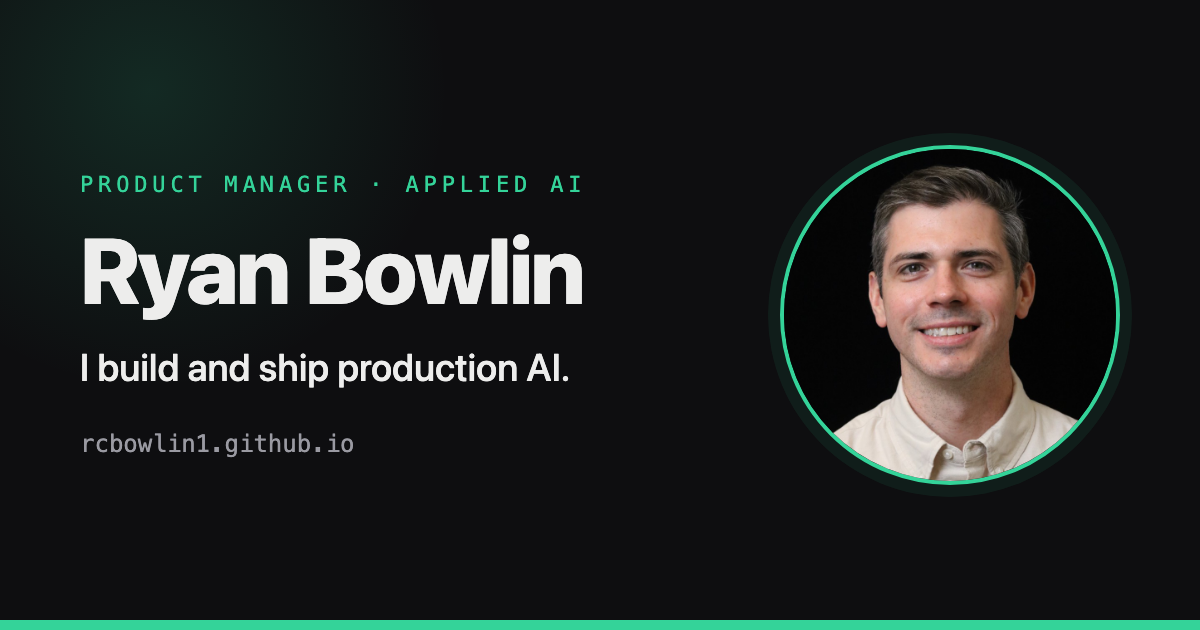
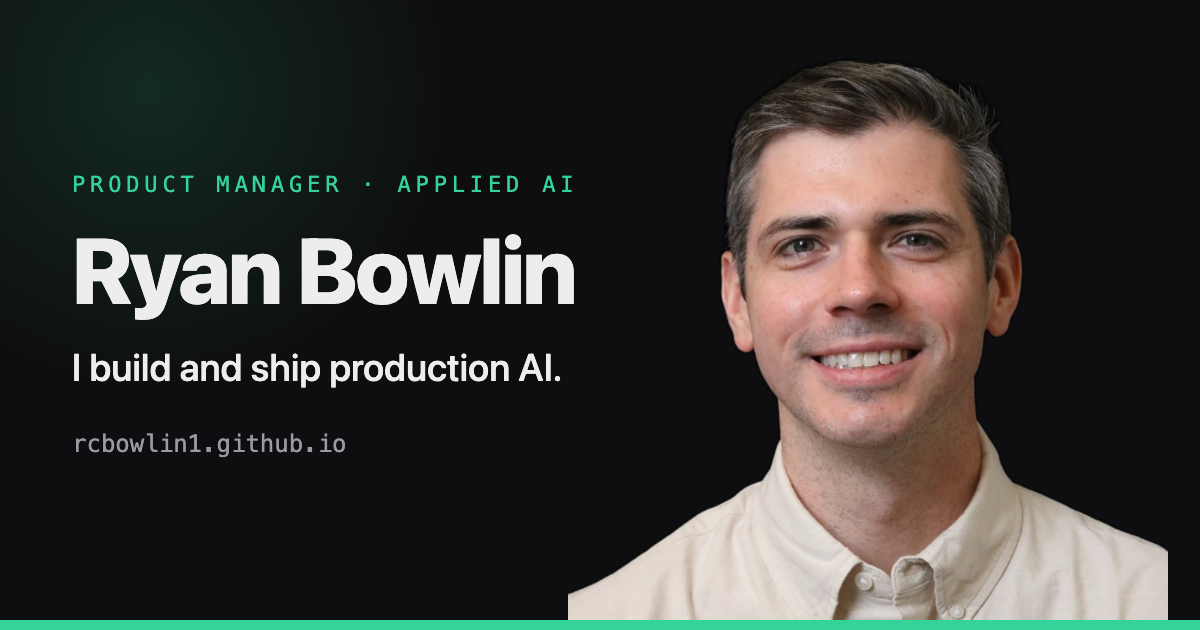
OG card: cut out headshot (rembg, transparent bg), rises from bottom-right; no frame

diff --git a/og-card.html b/og-card.html
@@ -7,7 +7,7 @@
   * { box-sizing: border-box; margin: 0; padding: 0; }
   :root {
     --bg: #0e0e10; --fg: #ededec; --muted: #9a9aa2;
-    --accent: #34d399; --line: #26262c;
+    --accent: #34d399;
     --sans: -apple-system, BlinkMacSystemFont, "Segoe UI", Roboto, Helvetica, Arial, sans-serif;
     --mono: "SF Mono", Menlo, Consolas, monospace;
   }
@@ -16,10 +16,6 @@
     background: var(--bg);
     color: var(--fg);
     font-family: var(--sans);
-    display: flex;
-    align-items: center;
-    justify-content: space-between;
-    padding: 72px 80px;
     position: relative;
     overflow: hidden;
   }
@@ -32,7 +28,14 @@
     background: radial-gradient(circle, rgba(52,211,153,0.14) 0%, rgba(52,211,153,0) 68%);
     pointer-events: none;
   }
-  .text { max-width: 620px; position: relative; z-index: 2; }
+  .text {
+    position: absolute;
+    left: 72px;
+    top: 50%;
+    transform: translateY(-50%);
+    max-width: 560px;
+    z-index: 2;
+  }
   .eyebrow {
     font-family: var(--mono);
     text-transform: uppercase;
@@ -61,23 +64,21 @@
     margin-top: 40px;
   }
   .url b { color: var(--accent); font-weight: 600; }
+  /* cut-out portrait, rising from the bottom-right (no frame, transparent bg) */
   .portrait {
-    position: relative;
-    z-index: 2;
-    width: 340px;
-    height: 340px;
-    border-radius: 50%;
-    object-fit: cover;
-    object-position: center 22%;
-    border: 4px solid var(--accent);
-    box-shadow: 0 0 0 12px rgba(52,211,153,0.08);
-    flex-shrink: 0;
+    position: absolute;
+    right: 32px;
+    bottom: 0;
+    height: 600px;
+    width: auto;
+    z-index: 1;
   }
   .accent-bar {
     position: absolute;
     bottom: 0; left: 0; right: 0;
     height: 10px;
     background: var(--accent);
+    z-index: 3;
   }
 </style>
 </head>
@@ -88,7 +89,7 @@
     <div class="tagline">I build and ship production AI.</div>
     <div class="url">rcbowlin1.github.io</div>
   </div>
-  <img class="portrait" src="src/img/ryan-bowlin.jpg" alt="Ryan Bowlin" />
+  <img class="portrait" src="src/img/ryan-bowlin-cutout.png" alt="Ryan Bowlin" />
   <div class="accent-bar"></div>
 </body>
 </html>
